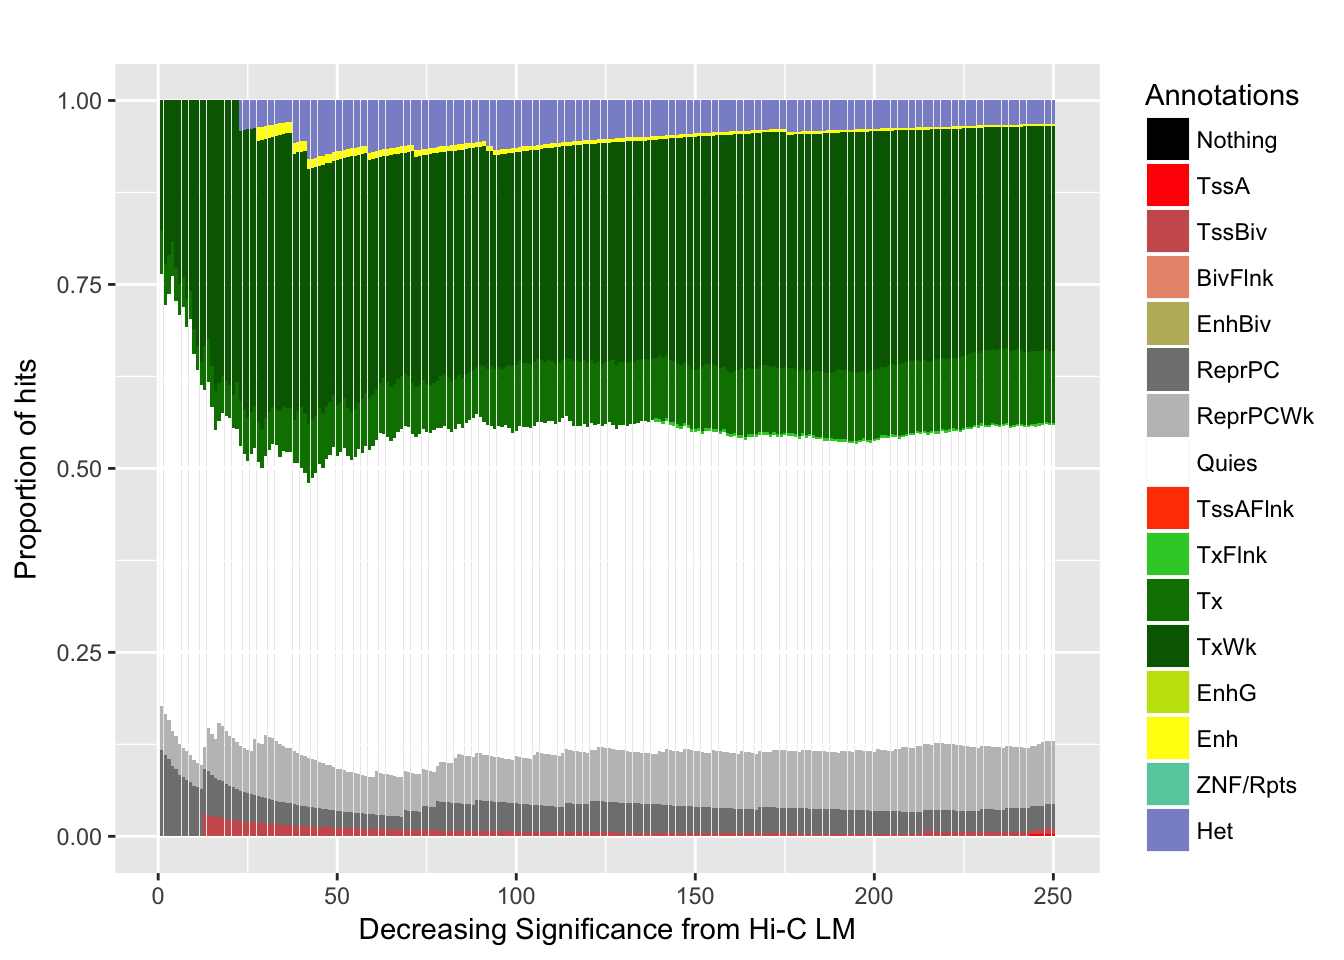
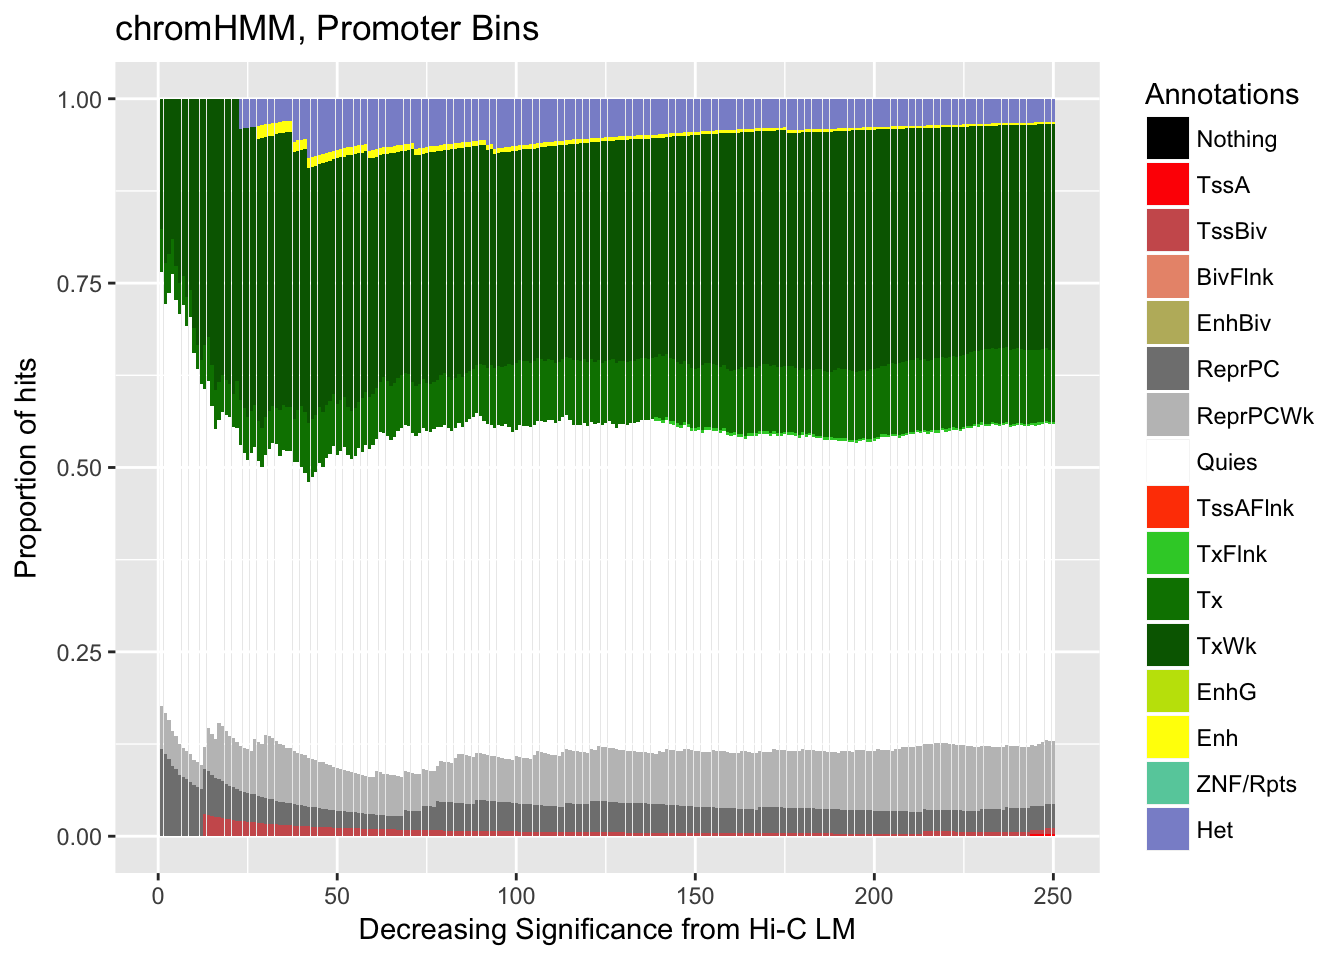
Build site.

diff --git a/docs/enrichment.html b/docs/enrichment.html
@@ -318,7 +318,7 @@ shared across the workflowr files. -->
 <p><strong>Last updated:</strong> 2018-05-10</p>
 <!-- Insert the code version (Git commit SHA1) if Git repository exists and R
  package git2r is installed -->
-<p><strong>Code version:</strong> e81cf9e</p>
+<p><strong>Code version:</strong> efa8479</p>
 <!-- Add your analysis here -->
 <div id="reading-in-the-data-reformatting-for-enrichment-analyses" class="section level3">
 <h3>Reading in the data, reformatting for enrichment analyses</h3>
@@ -595,10 +595,10 @@ ggprom &lt;- melt(prom.props[1:10000,], id=&quot;bin&quot;)
 ggnoprom &lt;- melt(nonprom.props[1:10000,], id=&quot;bin&quot;) #Only take the first ~50k rows of this because it takes FOREVER otherwise and there are only ~36k promoters anyway.
 
 #Visualize chromHMM annotation dynamics across FDR for promoter bins and non-promoter bins.
-ggplot(data=ggprom, aes(x=bin, group=bin, fill=variable, y=value)) + geom_col(position=&quot;fill&quot;) + ggtitle(&quot;Proportion of chromHMM Annotations, Promoter Bins&quot;) + xlab(&quot;Decreasing Significance from Hi-C LM&quot;) + ylab(&quot;Proportion of hits&quot;) + guides(fill=guide_legend(title=&quot;Annotations&quot;)) + theme(plot.title=element_text(hjust=11)) + scale_fill_manual(values=HMM.colors, labels=HMM.marks, drop=FALSE)</code></pre>
+ggplot(data=ggprom, aes(x=bin, group=bin, fill=variable, y=value)) + geom_col(position=&quot;fill&quot;) + ggtitle(&quot;chromHMM, Promoter Bins&quot;) + xlab(&quot;Decreasing Significance from Hi-C LM&quot;) + ylab(&quot;Proportion of hits&quot;) + guides(fill=guide_legend(title=&quot;Annotations&quot;)) + scale_fill_manual(values=HMM.colors, labels=HMM.marks, drop=FALSE)</code></pre>
 <pre><code>Warning: Removed 4017 rows containing missing values (position_stack).</code></pre>
 <p><img src="figure/enrichment.Rmd/chromHMM%20Visualization-1.png" width="672" style="display: block; margin: auto;" /></p>
-<pre class="r"><code>ggplot(data=ggnoprom, aes(x=bin, group=bin, fill=variable, y=value)) + geom_col(position=&quot;fill&quot;) + ggtitle(&quot;Proportion of chromHMM Annotations, non-Promoter Bins&quot;) + xlab(&quot;Decreasing Significance from Hi-C LM&quot;) + ylab(&quot;Proportion of hits&quot;) + guides(fill=guide_legend(title=&quot;Annotations&quot;)) + theme(plot.title=element_text(hjust=1)) + scale_fill_manual(values=HMM.colors, labels=HMM.marks, drop=FALSE)</code></pre>
+<pre class="r"><code>ggplot(data=ggnoprom, aes(x=bin, group=bin, fill=variable, y=value)) + geom_col(position=&quot;fill&quot;) + ggtitle(&quot;chromHMM, non-Promoter Bins&quot;) + xlab(&quot;Decreasing Significance from Hi-C LM&quot;) + ylab(&quot;Proportion of hits&quot;) + guides(fill=guide_legend(title=&quot;Annotations&quot;)) + scale_fill_manual(values=HMM.colors, labels=HMM.marks, drop=FALSE)</code></pre>
 <pre><code>Warning: Removed 27119 rows containing missing values (position_stack).</code></pre>
 <p><img src="figure/enrichment.Rmd/chromHMM%20Visualization-2.png" width="672" style="display: block; margin: auto;" /></p>
 <pre class="r"><code>#Maybe only the first 1000 are actually interesting...
@@ -606,10 +606,10 @@ ggprom &lt;- melt(prom.props[1:1000,], id=&quot;bin&quot;)
 ggnoprom &lt;- melt(nonprom.props[1:1000,], id=&quot;bin&quot;) #Only take the first ~50k rows of this because it takes FOREVER otherwise and there are only ~36k promoters anyway.
 
 #Visualize chromHMM annotation dynamics across FDR for promoter bins and non-promoter bins.
-ggplot(data=ggprom, aes(x=bin, group=bin, fill=variable, y=value)) + geom_col(position=&quot;fill&quot;) + ggtitle(&quot;Proportion of chromHMM Annotations, Promoter Bins&quot;) + xlab(&quot;Decreasing Significance from Hi-C LM&quot;) + ylab(&quot;Proportion of hits&quot;) + guides(fill=guide_legend(title=&quot;Annotations&quot;)) + scale_fill_manual(values=HMM.colors, labels=HMM.marks, drop=FALSE)</code></pre>
+ggplot(data=ggprom, aes(x=bin, group=bin, fill=variable, y=value)) + geom_col(position=&quot;fill&quot;) + ggtitle(&quot;chromHMM, Promoter Bins&quot;) + xlab(&quot;Decreasing Significance from Hi-C LM&quot;) + ylab(&quot;Proportion of hits&quot;) + guides(fill=guide_legend(title=&quot;Annotations&quot;)) + scale_fill_manual(values=HMM.colors, labels=HMM.marks, drop=FALSE)</code></pre>
 <pre><code>Warning: Removed 3725 rows containing missing values (position_stack).</code></pre>
 <p><img src="figure/enrichment.Rmd/chromHMM%20Visualization-3.png" width="672" style="display: block; margin: auto;" /></p>
-<pre class="r"><code>ggplot(data=ggnoprom, aes(x=bin, group=bin, fill=variable, y=value)) + geom_col(position=&quot;fill&quot;) + ggtitle(&quot;Proportion of chromHMM Annotations, non-Promoter Bins&quot;) + xlab(&quot;Decreasing Significance from Hi-C LM&quot;) + ylab(&quot;Proportion of hits&quot;) + guides(fill=guide_legend(title=&quot;Annotations&quot;)) + theme(plot.title=element_text(hjust=1)) + scale_fill_manual(values=HMM.colors, labels=HMM.marks, drop=FALSE)</code></pre>
+<pre class="r"><code>ggplot(data=ggnoprom, aes(x=bin, group=bin, fill=variable, y=value)) + geom_col(position=&quot;fill&quot;) + ggtitle(&quot;chromHMM, non-Promoter Bins&quot;) + xlab(&quot;Decreasing Significance from Hi-C LM&quot;) + ylab(&quot;Proportion of hits&quot;) + guides(fill=guide_legend(title=&quot;Annotations&quot;)) + scale_fill_manual(values=HMM.colors, labels=HMM.marks, drop=FALSE)</code></pre>
 <pre><code>Warning: Removed 8099 rows containing missing values (position_stack).</code></pre>
 <p><img src="figure/enrichment.Rmd/chromHMM%20Visualization-4.png" width="672" style="display: block; margin: auto;" /></p>
 <pre class="r"><code>##Mabe it&#39;s even less than 1000 actually. Do it entirely by FDR instead? Reload and reformat the dfs to see pvals again.
@@ -629,10 +629,10 @@ ggprom &lt;- melt(prom.props[1:250,], id=&quot;bin&quot;)
 ggnoprom &lt;- melt(nonprom.props[1:250,], id=&quot;bin&quot;)
 
 #Visualize chromHMM annotation dynamics across FDR for promoter bins and non-promoter bins.
-ggplot(data=ggprom, aes(x=bin, group=bin, fill=variable, y=value)) + geom_col(position=&quot;fill&quot;) + ggtitle(&quot;Proportion of chromHMM Annotations, Promoter Bins&quot;) + xlab(&quot;Decreasing Significance from Hi-C LM&quot;) + ylab(&quot;Proportion of hits&quot;) + guides(fill=guide_legend(title=&quot;Annotations&quot;)) + theme(plot.title=element_text(hjust=11)) + scale_fill_manual(values=HMM.colors, labels=HMM.marks, drop=FALSE)</code></pre>
+ggplot(data=ggprom, aes(x=bin, group=bin, fill=variable, y=value)) + geom_col(position=&quot;fill&quot;) + ggtitle(&quot;chromHMM, Promoter Bins&quot;) + xlab(&quot;Decreasing Significance from Hi-C LM&quot;) + ylab(&quot;Proportion of hits&quot;) + guides(fill=guide_legend(title=&quot;Annotations&quot;)) + scale_fill_manual(values=HMM.colors, labels=HMM.marks, drop=FALSE)</code></pre>
 <pre><code>Warning: Removed 1942 rows containing missing values (position_stack).</code></pre>
 <p><img src="figure/enrichment.Rmd/chromHMM%20Visualization-5.png" width="672" style="display: block; margin: auto;" /></p>
-<pre class="r"><code>ggplot(data=ggnoprom, aes(x=bin, group=bin, fill=variable, y=value)) + geom_col(position=&quot;fill&quot;) + ggtitle(&quot;Proportion of chromHMM Annotations, non-Promoter Bins&quot;) + xlab(&quot;Decreasing Significance from Hi-C LM&quot;) + ylab(&quot;Proportion of hits&quot;) + guides(fill=guide_legend(title=&quot;Annotations&quot;)) + theme(plot.title=element_text(hjust=1)) + scale_fill_manual(values=HMM.colors, labels=HMM.marks, drop=FALSE)</code></pre>
+<pre class="r"><code>ggplot(data=ggnoprom, aes(x=bin, group=bin, fill=variable, y=value)) + geom_col(position=&quot;fill&quot;) + ggtitle(&quot;chromHMM, non-Promoter Bins&quot;) + xlab(&quot;Decreasing Significance from Hi-C LM&quot;) + ylab(&quot;Proportion of hits&quot;) + guides(fill=guide_legend(title=&quot;Annotations&quot;)) +  scale_fill_manual(values=HMM.colors, labels=HMM.marks, drop=FALSE)</code></pre>
 <pre><code>Warning: Removed 2149 rows containing missing values (position_stack).</code></pre>
 <p><img src="figure/enrichment.Rmd/chromHMM%20Visualization-6.png" width="672" style="display: block; margin: auto;" /></p>
 <pre class="r"><code>#These aren&#39;t great right now because the colors don&#39;t even match for the annotations between the two...highly annoying, useless.
